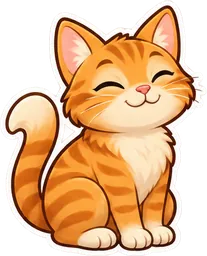
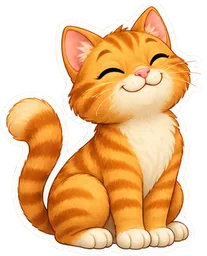
Ferme : planche 1 refaite dans le style des autres paysages (vache, cochon, poule, mouton, cheval, canard, chien, chat)

diff --git a/src/assets.js b/src/assets.js
@@ -147,13 +147,13 @@ window.STICKERS = [
   { id: "temple", theme: "jungle", name: "Temple", src: "assets/stickers/jungle/temple.webp", w: 222, h: 256, scale: 1.5 },
 
   // Ferme : animaux du plus connu au moins connu, puis le décor
-  { id: "cow", theme: "ferme", name: "Vache", src: "assets/stickers/ferme/cow.webp", w: 226, h: 256, scale: 1.2 },
-  { id: "pig", theme: "ferme", name: "Cochon", src: "assets/stickers/ferme/pig.webp", w: 216, h: 256, scale: 0.9 },
-  { id: "hen", theme: "ferme", name: "Poule", src: "assets/stickers/ferme/hen.webp", w: 174, h: 256, scale: 0.5 },
-  { id: "sheep", theme: "ferme", name: "Mouton", src: "assets/stickers/ferme/sheep.webp", w: 215, h: 256, scale: 0.9 },
-  { id: "horse", theme: "ferme", name: "Cheval", src: "assets/stickers/ferme/horse.webp", w: 190, h: 256, scale: 1.4 },
-  { id: "duck", theme: "ferme", name: "Canard", src: "assets/stickers/ferme/duck.webp", w: 169, h: 256, scale: 0.5 },
-  { id: "dog", theme: "ferme", name: "Chien", src: "assets/stickers/ferme/dog.webp", w: 202, h: 256, scale: 0.7 },
+  { id: "cow", theme: "ferme", name: "Vache", src: "assets/stickers/ferme/cow.webp", w: 234, h: 256, scale: 1.2 },
+  { id: "pig", theme: "ferme", name: "Cochon", src: "assets/stickers/ferme/pig.webp", w: 189, h: 256, scale: 0.9 },
+  { id: "hen", theme: "ferme", name: "Poule", src: "assets/stickers/ferme/hen.webp", w: 181, h: 256, scale: 0.5 },
+  { id: "sheep", theme: "ferme", name: "Mouton", src: "assets/stickers/ferme/sheep.webp", w: 205, h: 256, scale: 0.9 },
+  { id: "horse", theme: "ferme", name: "Cheval", src: "assets/stickers/ferme/horse.webp", w: 212, h: 256, scale: 1.4 },
+  { id: "duck", theme: "ferme", name: "Canard", src: "assets/stickers/ferme/duck.webp", w: 176, h: 256, scale: 0.5 },
+  { id: "dog", theme: "ferme", name: "Chien", src: "assets/stickers/ferme/dog.webp", w: 189, h: 256, scale: 0.7 },
   { id: "cat", theme: "ferme", name: "Chat", src: "assets/stickers/ferme/cat.webp", w: 207, h: 256, scale: 0.55 },
   { id: "rooster", theme: "ferme", name: "Coq", src: "assets/stickers/ferme/rooster.webp", w: 201, h: 256, scale: 0.6 },
   { id: "chick", theme: "ferme", name: "Poussin", src: "assets/stickers/ferme/chick.webp", w: 194, h: 256, scale: 0.3 },
